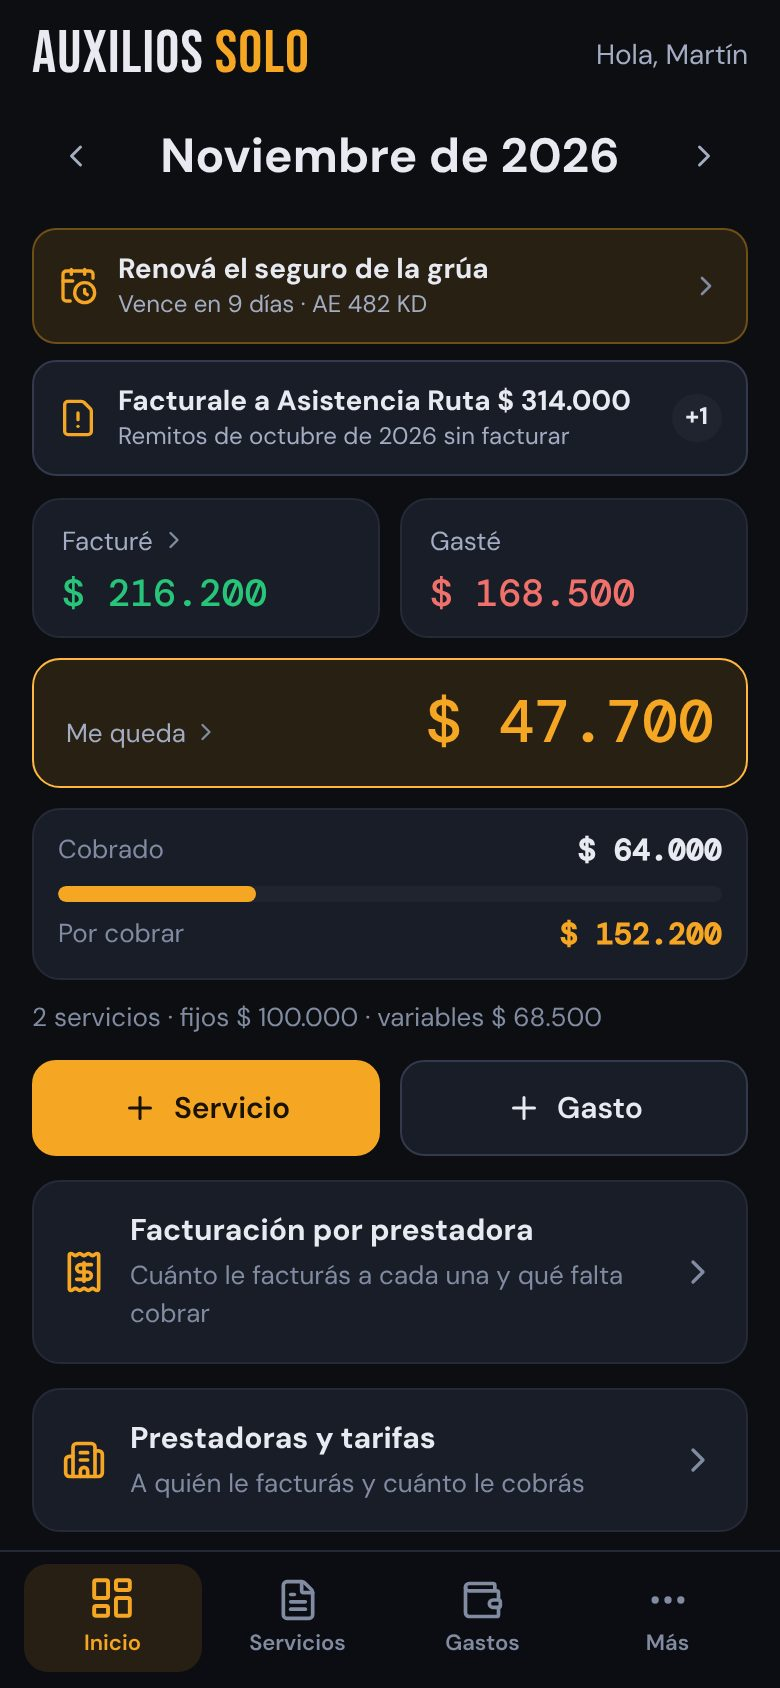
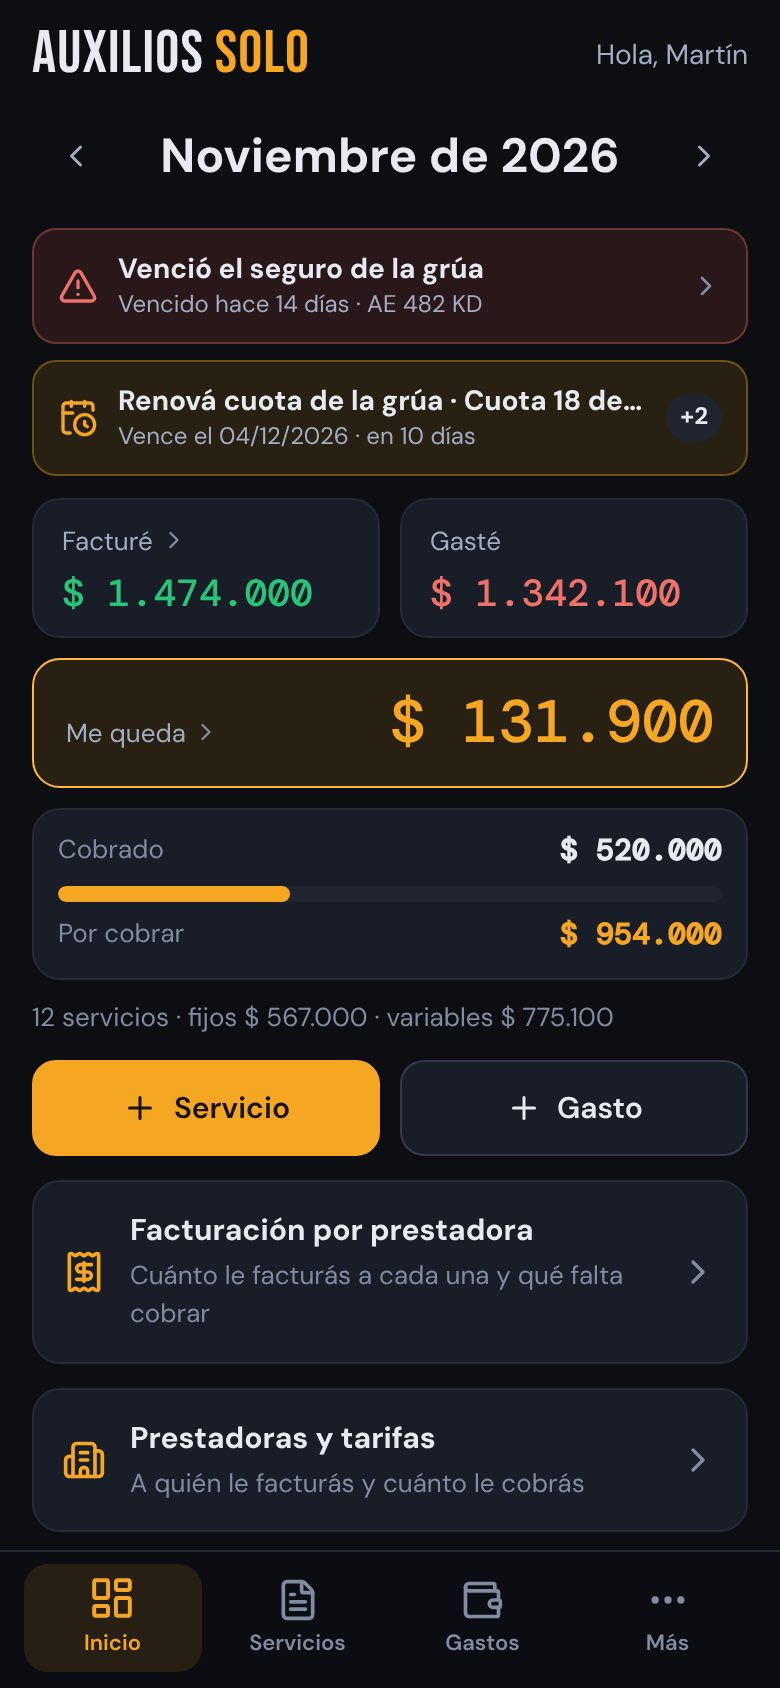
Solo: página de presentación centrada en el control de la grúa y la plata
- Frase: «El control de tu grúa, en una app.» con la bajada de servicios
  por prestadora, gastos, remitos digitales y si ganás o perdés plata.
- Dolores y funciones reordenados: números, servicios por prestadora,
  gastos, remitos y grúa. Capturas nuevas con datos de ejemplo coherentes
  (gastos y facturación) e imagen para compartir actualizada.
- Documento de marketing v2 con los ángulos de plata y control primero.

Claude-Session: https://claude.ai/code/session_01RLMDuKp8YqFgThi49JFa3h

diff --git a/gruero.html b/gruero.html
@@ -4,11 +4,11 @@
 <meta charset="UTF-8">
 <meta name="viewport" content="width=device-width, initial-scale=1, viewport-fit=cover">
 <meta name="theme-color" content="#0c0e12">
-<title>AuxiliOS Solo · El remito en el celular para el gruero</title>
-<meta name="description" content="Hacé el remito con fotos y firma en el celular, mandalo por WhatsApp y sabé cuánto te debe cada prestadora. Para el gruero que trabaja solo. Gratis en la etapa de prueba.">
+<title>AuxiliOS Solo · El control de tu grúa en una app</title>
+<meta name="description" content="Servicios por prestadora, gastos, remitos digitales y lo que facturaste. Sabé si estás ganando o perdiendo plata con tu grúa. Gratis en la etapa de prueba.">
 <meta property="og:type" content="website">
-<meta property="og:title" content="El remito en el celular. La plata, a la vista.">
-<meta property="og:description" content="Remitos con fotos y firma, cobros por prestadora y tu grúa al día. Para el gruero que trabaja solo.">
+<meta property="og:title" content="El control de tu grúa, en una app.">
+<meta property="og:description" content="Sabé si estás ganando o perdiendo plata: servicios por prestadora, gastos, remitos digitales y lo que facturaste.">
 <meta property="og:image" content="/assets/solo-landing/og.jpg">
 <meta property="og:locale" content="es_AR">
 <meta name="twitter:card" content="summary_large_image">
@@ -156,8 +156,8 @@ footer a{color:var(--ax-text-2)}
   <section class="hero"><div class="wrap">
     <div>
       <span class="eyebrow"><i></i>Para el gruero que trabaja solo</span>
-      <h1>El remito en el celular. <em>La plata, a la vista.</em></h1>
-      <p class="lead">Hacé el remito con <b>fotos y firma en 2 minutos</b>, mandalo por WhatsApp y sabé <b>cuánto te debe cada prestadora</b>. Sin papeles que se mojan ni cuentas en un cuaderno.</p>
+      <h1>El control de tu grúa, <em>en una app.</em></h1>
+      <p class="lead">Anotá tus servicios por prestadora, cargá tus gastos, hacé remitos digitales y <b>sabé de una vez si estás ganando o perdiendo plata</b>.</p>
       <div class="ctas">
         <a class="btn pri" href="/solo.html" data-cta="hero">Probala gratis <svg><use href="#i-arrow"/></svg></a>
         <a class="btn ghost" href="#" data-wa="hero"><svg><use href="#i-wa"/></svg> Preguntar por WhatsApp</a>
@@ -169,60 +169,89 @@ footer a{color:var(--ax-text-2)}
       </ul>
     </div>
     <div class="hero-phone">
-      <div class="phone"><img src="/assets/solo-landing/firma.jpg" width="390" height="844" alt="Pantalla de firma del remito en AuxiliOS Solo: el socio firma con el dedo y se marcan las conformidades" fetchpriority="high"></div>
-      <div class="badge-float r"><svg><use href="#i-sign"/></svg>Firma con el dedo, en el lugar</div>
-      <div class="badge-float"><svg><use href="#i-check"/></svg>Remito N.º 12 enviado por WhatsApp</div>
+      <div class="phone"><img src="/assets/solo-landing/inicio.jpg" width="390" height="844" alt="Inicio de AuxiliOS Solo: lo que facturaste, lo que gastaste y lo que te queda en el mes" fetchpriority="high"></div>
+      <div class="badge-float r"><svg><use href="#i-money"/></svg>Me queda $ 131.900 este mes</div>
+      <div class="badge-float"><svg><use href="#i-check"/></svg>12 servicios · 2 prestadoras</div>
     </div>
   </div></section>
 
   <section id="dolor"><div class="wrap">
     <p class="sec-k">¿Te suena?</p>
-    <h2>El trabajo lo hacés. El problema es todo lo demás.</h2>
+    <h2>¿Estás ganando o perdiendo plata con la grúa?</h2>
+    <p class="sec-sub">Si no lo sabés con seguridad, no sos el único. Es lo que más nos dicen los grueros.</p>
     <div class="pains">
-      <div class="pain"><svg><use href="#i-x"/></svg><div><b>El remito de papel se pierde</b><span>Se moja, se rompe o queda en la guantera, y sin remito no cobrás.</span></div></div>
-      <div class="pain"><svg><use href="#i-x"/></svg><div><b>No sabés cuánto te deben</b><span>Cada prestadora paga a distintos días y las cuentas quedan en un cuaderno o en la cabeza.</span></div></div>
-      <div class="pain"><svg><use href="#i-x"/></svg><div><b>A fin de mes no sabés si ganaste</b><span>Gasoil, taller, cubiertas, seguro… entre una cosa y otra, la plata se va.</span></div></div>
+      <div class="pain"><svg><use href="#i-x"/></svg><div><b>No sabés cuánto te queda</b><span>Entre gasoil, cubiertas, seguro y la cuota de la grúa, la plata se va y a fin de mes no sabés si ganaste.</span></div></div>
+      <div class="pain"><svg><use href="#i-x"/></svg><div><b>No sabés cuánto facturaste ni cuánto te deben</b><span>Cada prestadora paga a distintos días y las cuentas quedan en un cuaderno, en el WhatsApp o en la cabeza.</span></div></div>
+      <div class="pain"><svg><use href="#i-x"/></svg><div><b>Los papeles se pierden</b><span>Remitos que se mojan, tickets que se borran… y sin papel no cobrás ni sabés en qué gastaste.</span></div></div>
     </div>
   </div></section>
 
   <section id="como"><div class="wrap">
     <p class="sec-k">Qué hace</p>
-    <h2>Todo tu trabajo, en una app pensada para la grúa.</h2>
+    <h2>Todo el negocio de tu grúa, en un solo lugar.</h2>
     <p class="sec-sub">Pensada para usar con una mano, de noche y con poca señal.</p>
 
     <article class="feat">
       <div>
-        <span class="tag">Remito digital</span>
-        <h3>Remito con fotos y firma en 2 minutos</h3>
-        <p>Cargás patente, recorrido y adicionales, sacás las fotos del vehículo y el socio firma en la pantalla.</p>
+        <span class="tag">Tus números</span>
+        <h3>Sabé si estás ganando o perdiendo plata</h3>
+        <p>Lo que facturaste menos lo que gastaste: cuánto te queda en el mes, sin hacer cuentas.</p>
         <ul>
-          <li><svg><use href="#i-check"/></svg>PDF prolijo con tus datos, tu logo y tu CUIT</li>
-          <li><svg><use href="#i-check"/></svg>Se lo mandás al socio por WhatsApp o por mail</li>
+          <li><svg><use href="#i-check"/></svg>Facturado, gastado y lo que te queda, mes a mes</li>
+          <li><svg><use href="#i-check"/></svg>Lo que ya cobraste y lo que falta cobrar</li>
+          <li><svg><use href="#i-check"/></svg>Cuántos servicios necesitás para cubrir tus gastos fijos</li>
+        </ul>
+      </div>
+      <div class="feat-img"><div class="phone"><img src="/assets/solo-landing/inicio.jpg" width="390" height="844" alt="Resumen del mes: facturado, gastado y lo que queda" loading="lazy"></div></div>
+    </article>
+
+    <article class="feat rev">
+      <div>
+        <span class="tag">Servicios por prestadora</span>
+        <h3>Anotá cada servicio y sabé cuánto facturarle a cada una</h3>
+        <p>Cargás la tarifa de cada prestadora una vez y el precio de cada servicio se calcula solo, con los km de más y los adicionales.</p>
+        <ul>
+          <li><svg><use href="#i-check"/></svg>Lo que tenés que facturarle a cada prestadora</li>
+          <li><svg><use href="#i-check"/></svg>Te avisa cuando hay servicios sin facturar</li>
+          <li><svg><use href="#i-check"/></svg>Particulares también, con el precio que arreglaste</li>
+        </ul>
+      </div>
+      <div class="feat-img"><div class="phone"><img src="/assets/solo-landing/facturacion.jpg" width="390" height="844" alt="Facturación por prestadora: cuánto facturarle a cada una y cuánto falta" loading="lazy"></div></div>
+    </article>
+
+    <article class="feat">
+      <div>
+        <span class="tag">Gastos</span>
+        <h3>Mirá en qué se te va la plata</h3>
+        <p>Cargás un gasto en dos toques y ves cuánto se lleva cada cosa: combustible, taller, cubiertas, seguro, cuota de la grúa.</p>
+        <ul>
+          <li><svg><use href="#i-check"/></svg>Gastos del día y gastos fijos del mes</li>
+          <li><svg><use href="#i-check"/></svg>Foto del ticket para no perderlo</li>
+          <li><svg><use href="#i-check"/></svg>Te avisa cuándo vence cada gasto fijo</li>
+        </ul>
+      </div>
+      <div class="feat-img"><div class="phone"><img src="/assets/solo-landing/gastos.jpg" width="390" height="844" alt="Gastos del mes por categoría" loading="lazy"></div></div>
+    </article>
+
+    <article class="feat rev">
+      <div>
+        <span class="tag">Remitos digitales</span>
+        <h3>Remito con fotos y firma, desde el celular</h3>
+        <p>Patente, recorrido, adicionales, fotos del vehículo y la firma del socio en la pantalla. Se lo mandás por WhatsApp o por mail.</p>
+        <ul>
+          <li><svg><use href="#i-check"/></svg>PDF con tus datos, tu logo y tu CUIT</li>
+          <li><svg><use href="#i-check"/></svg>Fotos y firma que te cubren si hay reclamos</li>
           <li><svg><use href="#i-check"/></svg>Código QR para comprobar que es original</li>
         </ul>
       </div>
       <div class="feat-img"><div class="phone"><img src="/assets/solo-landing/firma.jpg" width="390" height="844" alt="Remito con conformidades y firma del socio" loading="lazy"></div></div>
     </article>
 
-    <article class="feat rev">
-      <div>
-        <span class="tag">Tus números</span>
-        <h3>Cuánto facturaste, cuánto te deben y cuánto te queda</h3>
-        <p>Cada remito firmado se suma solo. Ves lo que le tenés que facturar a cada prestadora y lo que falta cobrar.</p>
-        <ul>
-          <li><svg><use href="#i-check"/></svg>Tarifas por prestadora y tipo de servicio</li>
-          <li><svg><use href="#i-check"/></svg>Gastos con foto del ticket</li>
-          <li><svg><use href="#i-check"/></svg>Te avisa qué remitos falta facturar</li>
-        </ul>
-      </div>
-      <div class="feat-img"><div class="phone"><img src="/assets/solo-landing/inicio.jpg" width="390" height="844" alt="Inicio de AuxiliOS Solo con lo facturado, lo gastado y lo que queda del mes" loading="lazy"></div></div>
-    </article>
-
     <article class="feat">
       <div>
         <span class="tag">Tu grúa</span>
         <h3>Seguro, VTV y service, sin que se te pasen</h3>
-        <p>Cargás los vencimientos una vez y te avisamos 15 días antes. Los km se suman solos con cada remito.</p>
+        <p>Cargás los vencimientos una vez y te avisamos 15 días antes. Los km se suman solos con cada servicio.</p>
         <ul>
           <li><svg><use href="#i-check"/></svg>Cuenta regresiva por color</li>
           <li><svg><use href="#i-check"/></svg>Aviso del próximo service por km</li>
@@ -242,11 +271,11 @@ footer a{color:var(--ax-text-2)}
 
   <section id="empezar"><div class="wrap">
     <p class="sec-k">Cómo empezar</p>
-    <h2>En 5 minutos estás haciendo tu primer remito.</h2>
+    <h2>En 5 minutos tenés tu grúa cargada.</h2>
     <ol class="steps">
       <li><div><b>Creá tu cuenta</b><span>Con tu email o con Google. Un minuto.</span></div></li>
       <li><div><b>Cargá tu grúa y tu prestadora</b><span>La patente y con quién trabajás. Las tarifas, cuando quieras.</span></div></li>
-      <li><div><b>Hacé tu primer remito</b><span>Fotos, firma y listo. Se lo mandás al socio al toque.</span></div></li>
+      <li><div><b>Anotá tus servicios y gastos</b><span>Cada servicio y cada gasto que cargás ya se ve en tus números.</span></div></li>
     </ol>
   </div></section>
 
@@ -265,6 +294,7 @@ footer a{color:var(--ax-text-2)}
     <div class="faq">
       <details><summary>¿Tengo que instalar algo?</summary><p>No hace falta bajarla de ninguna tienda. Se abre desde el navegador del celular y la podés agregar a la pantalla de inicio para usarla como cualquier app. Anda en Android y en iPhone.</p></details>
       <details><summary>¿Qué pasa si no tengo señal?</summary><p>Seguís cargando igual. Lo que hacés queda guardado en el celular y se sube solo cuando vuelve la conexión.</p></details>
+      <details><summary>¿Sirve si trabajo con varias prestadoras?</summary><p>Sí. Cargás cada prestadora con su tarifa y a cuántos días te paga, y ves por separado cuánto le facturaste a cada una y cuánto te debe. También podés anotar servicios a particulares.</p></details>
       <details><summary>¿La prestadora acepta este remito?</summary><p>Es un comprobante del servicio con fotos, firma del socio y un código QR que demuestra que es original. Mostraselo a tu prestadora; si te piden algún dato más, avisanos y lo sumamos.</p></details>
       <details><summary>¿Reemplaza la factura?</summary><p>No. El remito es el comprobante del servicio y la conformidad del socio. La factura la seguís haciendo como siempre, pero la app te dice cuánto le tenés que facturar a cada prestadora.</p></details>
       <details><summary>¿Mis datos están seguros?</summary><p>Cada cuenta ve solo sus datos. Las fotos y firmas se guardan en una carpeta privada. No vendemos tus datos ni los usamos para publicidad.</p></details>
@@ -273,8 +303,8 @@ footer a{color:var(--ax-text-2)}
   </div></section>
 
   <section class="final"><div class="wrap">
-    <h2>Dejá el papel en la guantera.</h2>
-    <p class="sec-sub" style="margin:0 auto 22px">Probala en tu próximo servicio. Si no te sirve, no perdiste nada.</p>
+    <h2>Dejá de hacer cuentas en el cuaderno.</h2>
+    <p class="sec-sub" style="margin:0 auto 22px">Cargá el mes en la app y sabé cuánto te queda. Si no te sirve, no perdiste nada.</p>
     <div class="ctas">
       <a class="btn pri" href="/solo.html" data-cta="final">Probala gratis <svg><use href="#i-arrow"/></svg></a>
       <a class="btn ghost" href="#" data-wa="final"><svg><use href="#i-wa"/></svg> Preguntar por WhatsApp</a>

diff --git a/test/solo-app.test.js b/test/solo-app.test.js
@@ -286,10 +286,10 @@ test('Solo: formularios de arriba hacia abajo, campos del mismo tamaño y fechas
 
 test('Solo: página de presentación para los anuncios (gruero.html) y medición de Meta',()=>{
   const l=fs.readFileSync('gruero.html','utf8'),px=fs.readFileSync('ui/meta-pixel.js','utf8'),v=fs.readFileSync('vercel.json','utf8'),t=fs.readFileSync('terminos-solo.html','utf8');
-  assert.match(l,/El remito en el celular\. <em>La plata, a la vista\.<\/em>/);assert.match(l,/data-cta="hero"/);assert.match(l,/a\.href=a\.getAttribute\('href'\)\+qs/,'los botones llevan la campaña a la app');
+  assert.match(l,/El control de tu grúa, <em>en una app\.<\/em>/);assert.match(l,/ganando o perdiendo plata/);assert.match(l,/data-cta="hero"/);assert.match(l,/a\.href=a\.getAttribute\('href'\)\+qs/,'los botones llevan la campaña a la app');
   assert.match(l,/if\(!wa\)\{a\.hidden=true/,'sin número de soporte no se muestra WhatsApp');assert.match(l,/og:image/);assert.doesNotMatch(l,/AIza|sk-[A-Za-z0-9]/,'sin llaves en la página');
   assert.ok(v.indexOf('"/gruero"')>0&&v.indexOf('"/gruero"')<v.indexOf('"/(.*)"'),'la ruta /gruero va antes de la general');
   assert.match(px,/if\(!id\)return/,'el píxel solo se carga si está configurado');assert.match(px,/utm_source/);assert.match(js,/AxPixel\?\.track\('CompleteRegistration'\)/);
   assert.match(t,/píxel de Meta/,'la política de privacidad lo explica');
-  for(const f of ['firma.jpg','inicio.jpg','grua.jpg','og.jpg'])assert.ok(fs.statSync('assets/solo-landing/'+f).size<200000,f);
+  for(const f of ['firma.jpg','inicio.jpg','grua.jpg','gastos.jpg','facturacion.jpg','og.jpg'])assert.ok(fs.statSync('assets/solo-landing/'+f).size<200000,f);
 });

diff --git a/entregables/marketing/frase-y-creativos-meta-ads.md b/entregables/marketing/frase-y-creativos-meta-ads.md
@@ -1,6 +1,6 @@
 # AuxiliOS Solo · Frase de venta y creativos para Meta Ads
 
-Versión 1 · noviembre 2026. Documento de trabajo: se completa con los resultados de cada prueba.
+Versión 2 · noviembre 2026 (frase centrada en el control de la grúa y la plata). Documento de trabajo: se completa con los resultados de cada prueba.
 
 ---
 
@@ -8,33 +8,31 @@ Versión 1 · noviembre 2026. Documento de trabajo: se completa con los resultad
 
 **El gruero que trabaja solo** (monogruero): dueño de una grúa, la maneja él, trabaja para una o varias prestadoras de asistencia y además toma particulares.
 
-- **Qué le duele:** remitos de papel que se pierden o se mojan, prestadoras que pagan tarde o rechazan remitos, no saber cuánto le deben ni cuánto le queda a fin de mes, vencimientos que se le pasan.
+- **Qué le duele (en orden):** no saber si está ganando o perdiendo plata; no saber cuánto facturó ni cuánto le debe cada prestadora; gastos que se le van sin registrar (gasoil, cubiertas, seguro, cuota); papeles que se pierden; vencimientos que se le pasan.
 - **Cómo es:** está todo el día en la calle, usa WhatsApp para todo, mira Facebook e Instagram en los ratos de espera. No le gustan las cosas complicadas ni “las apps de empresa”.
 - **Cómo habla:** directo, sin vueltas. “Socio” (el cliente de la asistencia), “prestadora”, “remito”, “servicio”, “arrastre”, “excedente”.
 
 ## 2. Frase de venta
 
-**Frase principal (recomendada):**
+**Frase principal:**
 
-> **El remito en el celular. La plata, a la vista.**
+> **El control de tu grúa, en una app.**
 
 **Bajada:**
 
-> Hacé el remito con fotos y firma en 2 minutos, mandalo por WhatsApp y sabé cuánto te debe cada prestadora.
+> Anotá tus servicios por prestadora, cargá tus gastos, hacé remitos digitales y sabé de una vez si estás ganando o perdiendo plata.
 
-**Por qué esta:** junta los dos dolores más fuertes en dos frases cortas: el papel (operativo) y la plata (económico). Se entiende en 2 segundos, que es lo que dura la atención en un anuncio.
+**Por qué esta:** el gruero solo es un negocio, y lo que más le duele es no saber si le está yendo bien. “Control” resume todo lo que hace la app (servicios, gastos, facturación, remitos, grúa) y la bajada lo baja a tierra con la pregunta que lo engancha: **¿ganás o perdés plata?**
 
 **Alternativas para probar en los anuncios:**
 
 | Frase | Ángulo | Cuándo usarla |
 |---|---|---|
-| Dejá el papel en la guantera. | Papel | Cierre de video, imagen simple |
-| Sabé cuánto te debe cada prestadora. | Plata | Anuncios de cobro |
-| Remito con fotos y firma en 2 minutos. | Velocidad | Demo en video |
-| Si el socio reclama, las fotos te cubren. | Respaldo | Anuncios de daños o reclamos |
-| Tu grúa, tus números, en el celular. | General | Anuncio de marca |
-
-> Ojo con “2 minutos”: medilo con los primeros usuarios. Si tardan más, cambiamos el número.
+| ¿Estás ganando o perdiendo plata con la grúa? | Plata | Gancho de video, la más fuerte |
+| Sabé cuánto te queda después del gasoil. | Gastos | Carrusel de números |
+| Sabé cuánto te debe cada prestadora. | Facturación | Anuncios de cobro |
+| Dejá de hacer cuentas en el cuaderno. | Orden | Cierre de video, imagen simple |
+| Remitos digitales con fotos y firma. | Remito | Demo en video |
 
 ## 3. Ángulos y creativos
 
@@ -48,6 +46,28 @@ Formato de cada creativo:
 Los videos van en **9:16** (Reels/Historias), de 15 a 30 segundos, con subtítulos siempre: la mayoría los mira sin sonido.
 
 ---
+
+### Ángulo P · ¿Ganás o perdés plata? (el principal)
+
+**Idea:** la pregunta que ningún gruero puede contestar con seguridad.
+
+- **P1 · Video selfie o a cámara:** un gruero al lado de la grúa.
+  - **Gancho:** “¿Cuánta plata te quedó el mes pasado con la grúa? ¿Seguro?”
+  - **Texto:** Facturás, cargás gasoil, pagás cubiertas, seguro y la cuota… y a fin de mes no sabés si ganaste. Con AuxiliOS Solo anotás servicios y gastos en el celular y ves cuánto te queda. Probala gratis.
+  - **Título:** El control de tu grúa, en una app
+- **P2 · Carrusel de 3 tarjetas (capturas):** “Facturé $ 1.474.000” → “Gasté $ 1.342.100” → “Me quedan $ 131.900”.
+  - **Texto:** Facturar mucho no es ganar mucho. Mirá tus números de verdad.
+  - **Título:** ¿Cuánto te queda después del gasoil?
+- **P3 · Imagen 4:5:** la pantalla de Inicio con “Me queda” resaltado y el texto “¿Vos sabés este número?”.
+
+### Ángulo Q · Todo en un lugar (control)
+
+**Idea:** hoy todo está en papeles, WhatsApp, un cuaderno y la cabeza. La app lo junta.
+
+- **Q1 · Video de pantalla rápido (15 s):** Servicios → Facturación por prestadora → Gastos → Mi grúa, con un texto por pantalla: “Tus servicios”, “Lo que te debe cada prestadora”, “En qué gastás”, “Tu grúa al día”.
+  - **Gancho:** “Cuaderno, talonario, WhatsApp, Excel… ¿o una sola app?”
+  - **Título:** Todo el negocio de tu grúa, en un solo lugar
+- **Q2 · Antes y después:** a la izquierda, cuaderno, tickets y talonario; a la derecha, el celular con la app.
 
 ### Ángulo A · El papel se pierde (dolor)
 
@@ -143,7 +163,7 @@ En cuanto un gruero real la use una semana: video selfie de 20 segundos contando
 - **Objetivo:** Clientes potenciales o Ventas, optimizando el evento **Registro completado**. Los primeros días, mientras el píxel junta datos, se puede optimizar por clics en el enlace.
 - **Público:** Argentina, abierto (sin intereses) o con intereses como grúas, auxilio mecánico, remolque, transporte o camiones. Probar los dos. En este rubro el creativo filtra más que la segmentación.
 - **Ubicaciones:** Reels, Historias y feed de Facebook e Instagram.
-- **Prueba inicial:** 1 campaña, 1 o 2 conjuntos, 4 a 6 anuncios con ángulos distintos (A1, B1, C1, D1 y H1). Correrla 7 días sin tocarla. Después se apagan los peores y se duplican los mejores.
+- **Prueba inicial:** 1 campaña, 1 o 2 conjuntos, 4 a 6 anuncios con ángulos distintos (P1, P2, Q1, B1, D1 y H1). Correrla 7 días sin tocarla. Después se apagan los peores y se duplican los mejores.
 - **Enlace:** `https://<dominio>/gruero?utm_source=meta&utm_medium=paid&utm_campaign=solo_lanzamiento&utm_content=<angulo>` (por ejemplo, `utm_content=b1-video`). La app guarda de qué anuncio vino cada cuenta.
 
 **Qué mirar:**
@@ -163,6 +183,7 @@ Con el celular alcanza. Mejor real que perfecto.
 - [ ] Grúa de día y de noche, con balizas (planos de 3 segundos).
 - [ ] Manos firmando en la pantalla (para D1 y C1).
 - [ ] Talonario de papel mojado o arrugado (A1, A2).
-- [ ] Grabación de pantalla de un remito completo (C1), del Inicio (B1) y de Mi grúa (G1).
+- [ ] Grabación de pantalla de un remito completo (C1), del Inicio (P2, B1), de Facturación y Gastos (Q1) y de Mi grúa (G1).
+- [ ] Cuaderno con cuentas, tickets y talonario arriba de la mesa (Q2).
 - [ ] Celular sin señal (F1).
 - [ ] Un gruero real hablando a cámara (I), apenas haya uno.
